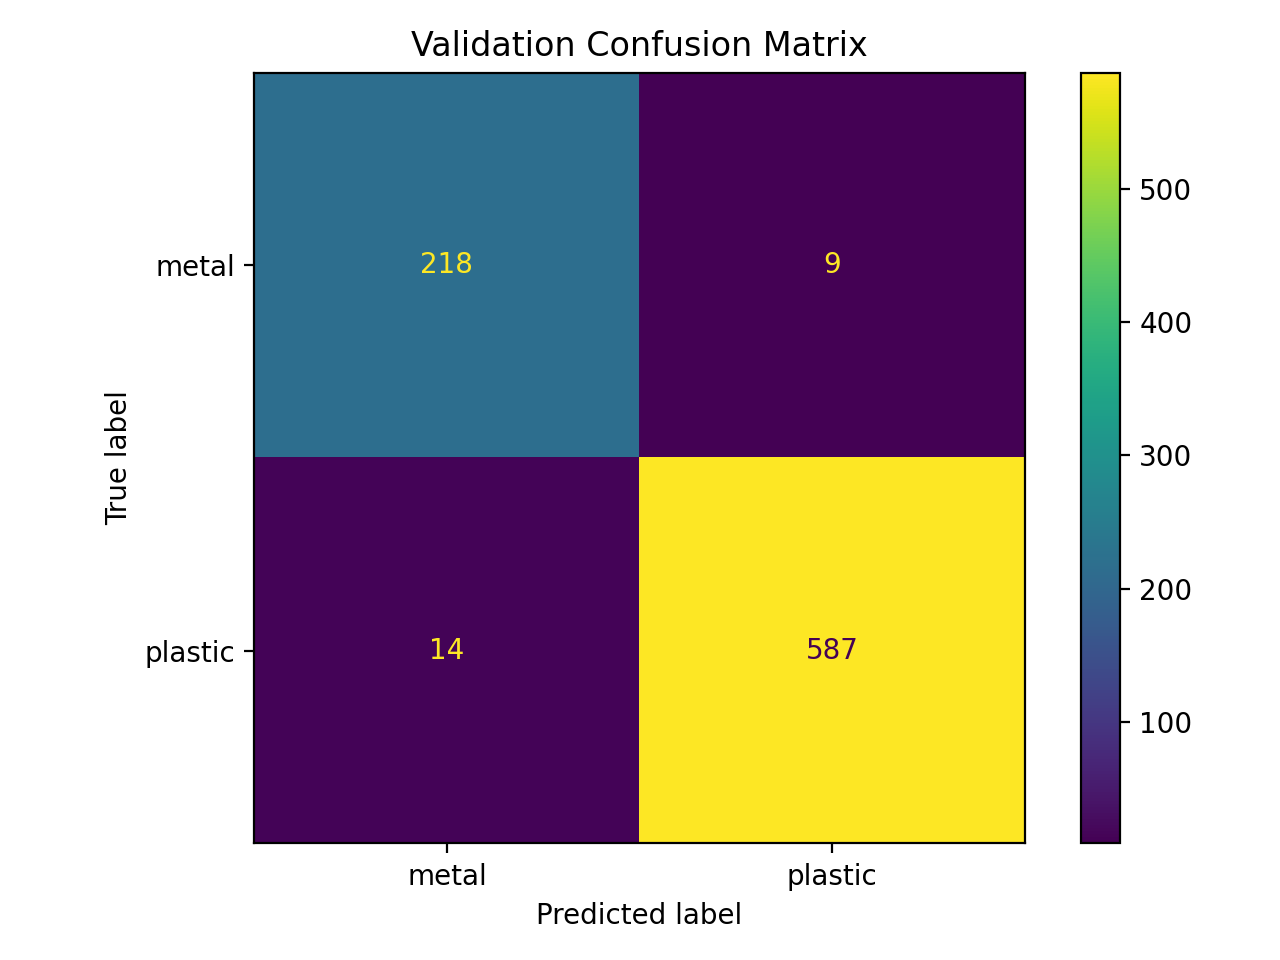
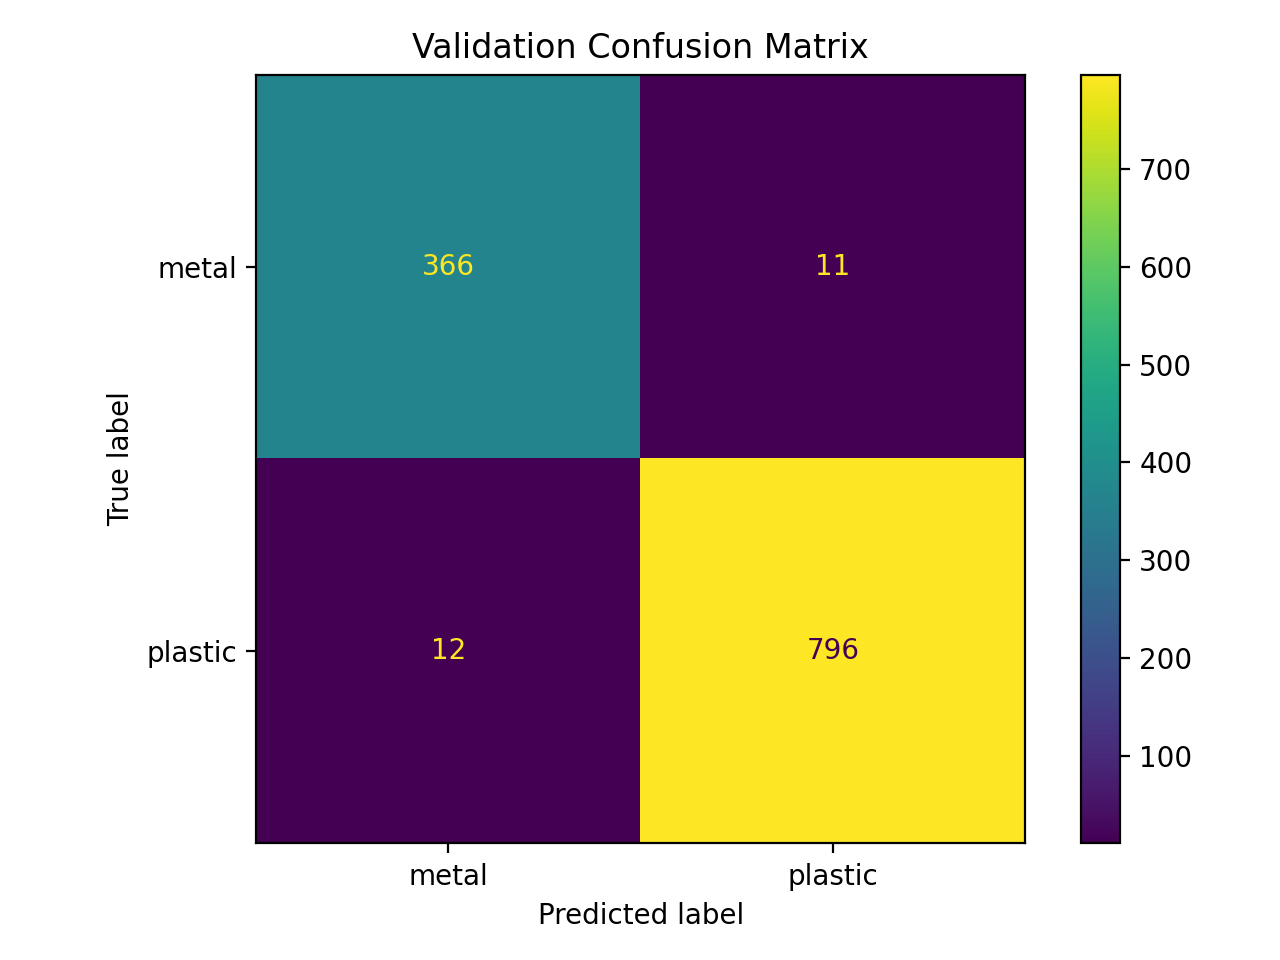
Fix Colab checkpoint download and add a local eval path.
Jupyter contents 404s on content/models/*.pt, so training now copies the weights to /content/best.pt before download. --eval scores data_real without overwriting the checkpoint.

diff --git a/train.py b/train.py
@@ -98,10 +98,22 @@ def parse_args():
             "all trains the whole network."
         ),
     )
+    parser.add_argument(
+        "--eval",
+        action="store_true",
+        help=(
+            "Score validation and test only. "
+            "Does not train or overwrite the checkpoint."
+        ),
+    )
     return parser.parse_args()
 
 
 args = parse_args()
+
+if args.eval:
+    args.resume = True
+    args.epochs = 0
 
 if args.lr_backbone is None:
     args.lr_backbone = args.lr / 10
@@ -798,7 +810,8 @@ test_accuracy = (
 # Save best model
 # ---------------------------------------------------------
 
-save_checkpoint(test_accuracy=test_accuracy)
+if not args.eval:
+    save_checkpoint(test_accuracy=test_accuracy)
 
 print()
 print(
@@ -812,7 +825,10 @@ print(
     flush=True,
 )
 
-print(f"Saved model to {MODEL_PATH}", flush=True)
+if args.eval:
+    print(f"Eval only; left {MODEL_PATH} unchanged.", flush=True)
+else:
+    print(f"Saved model to {MODEL_PATH}", flush=True)
 
 create_confusion_matrix(
     model,

diff --git a/README.md b/README.md
@@ -160,17 +160,27 @@ The first run prints a Google sign-in URL. Open it, approve access, then paste t
 
 If login fails with `Scope has changed`, re-run the command. The helper treats a reduced Google grant as a warning instead of crashing. You should not need to paste a code again once `~/.config/colab-cli/token.json` exists.
 
-With `--drive`, the helper zips only the training scripts, mounts Drive, copies photos onto the VM disk, and (if `--resume`) copies the checkpoint from Drive. Otherwise it also zips the local dataset directory. It installs `requirements-colab.txt` on the VM (PyTorch is already on Colab), then pulls back `models/resnext50_metal_plastic.pt` and the confusion-matrix artifacts. The VM is stopped when the script exits unless you pass `--keep`.
+With `--drive`, the helper zips only the training scripts, mounts Drive, copies photos onto the VM disk, and (if `--resume`) copies the checkpoint from Drive. Otherwise it also zips the local dataset directory. It installs `requirements-colab.txt` on the VM (PyTorch is already on Colab), copies the best checkpoint to `/content/best.pt` (Jupyter cannot download `content/models/*.pt`), and pulls that file plus the confusion-matrix artifacts. The VM is stopped when the script exits unless you pass `--keep`.
+
+After `fc` training, unfreeze the last residual stage on the **same** `--keep` VM:
+
+```bash
+./colab_train.sh --keep --drive --resume --unfreeze layer4 --lr 0.001 --lr-backbone 0.0001 --epochs 6
+```
+
+Do not start `layer4` until `fc` has finished and `Training finished` printed. Skip `layer3` unless `layer4` stalls.
 
 ## Predict
 
+Colab training already prints **test accuracy** on the VM `data_real` split. To score the same checkpoint on your Mac:
+
 ```bash
-python predict.py
+python train.py --eval --data-dir data_real
 python predict.py --data-dir data_real
 python predict.py --images path/to/photo.jpg path/to/folder --out predictions.png
 ```
 
-Opens a window with labeled photos. Each image shows **metal** and **plastic** percentages (not only the winner). `--images` scores any files or folders; otherwise it samples the test split. Training's test step only prints overall accuracy plus a validation confusion matrix — use `predict.py` to see scores on real photos.
+`--eval` prints validation and test accuracy without training. `predict.py` overlays **metal** and **plastic** percentages on the photos. `--images` scores any files or folders; otherwise it samples the test split. The Mac `data_real/` tree is only the photos you copied here; the Drive/Colab set is larger.
 
 The checkpoint is loaded from `models/resnext50_metal_plastic.pt`, or from `resnext50_metal_plastic.pt` in the current directory if that is the file you already have.
 
